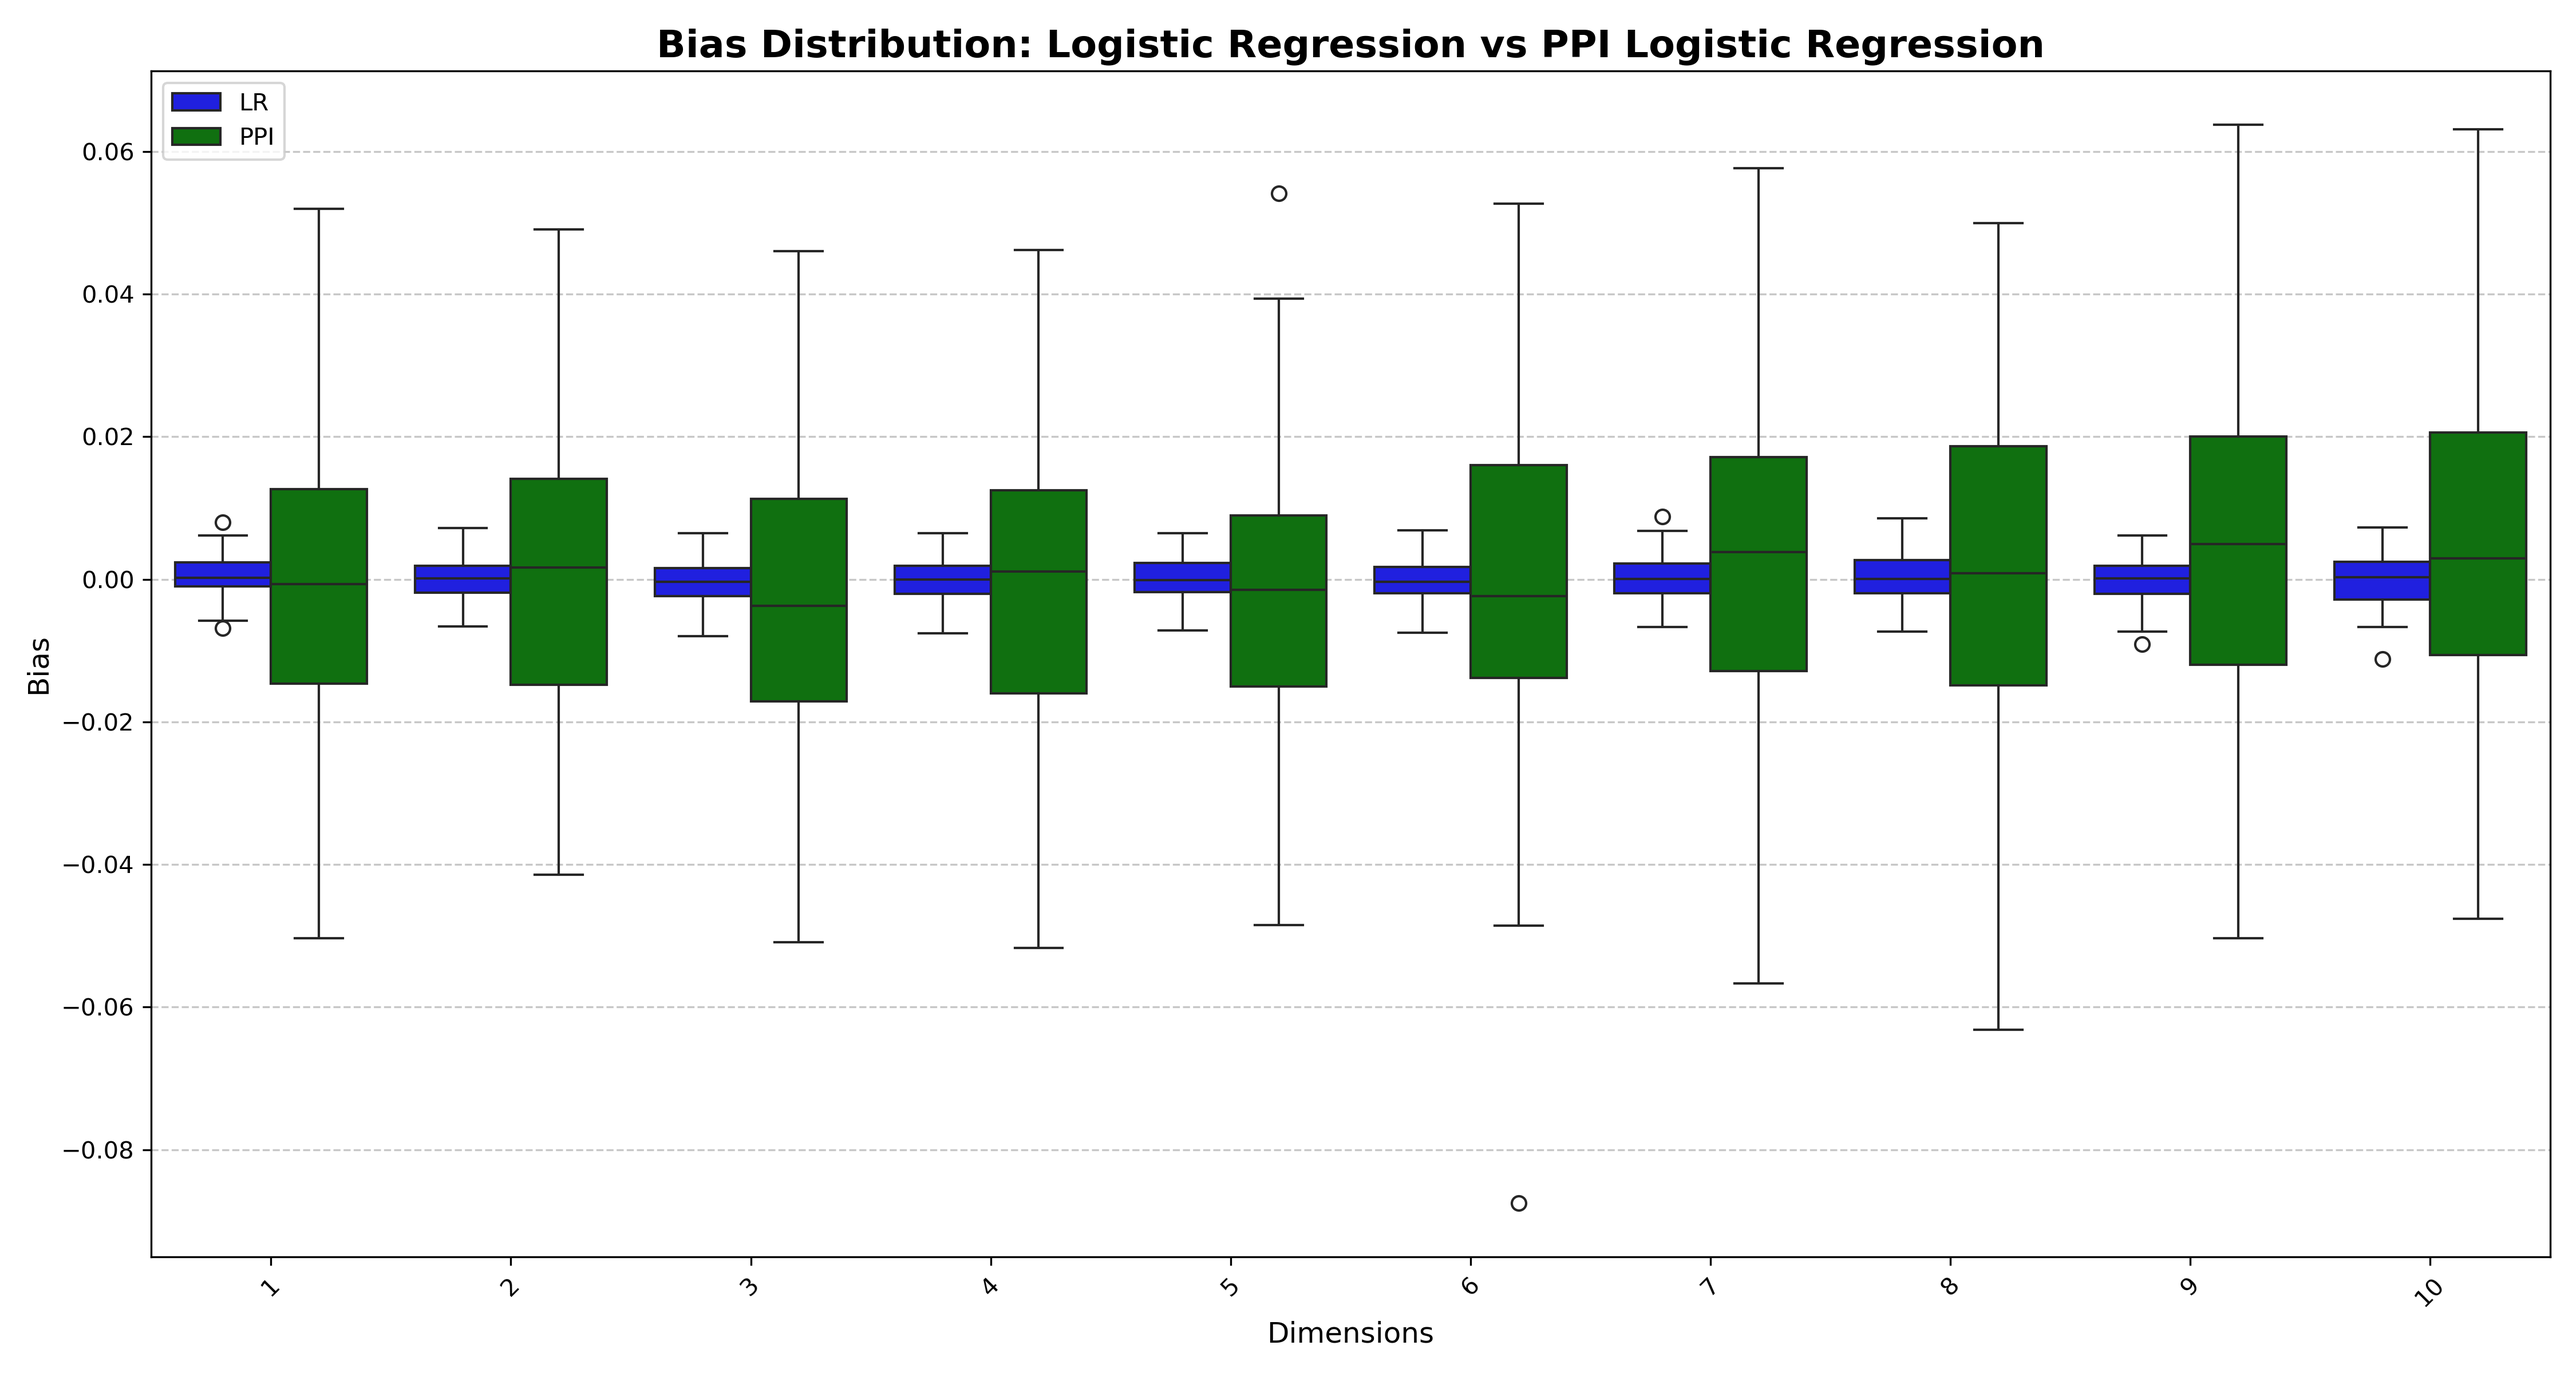
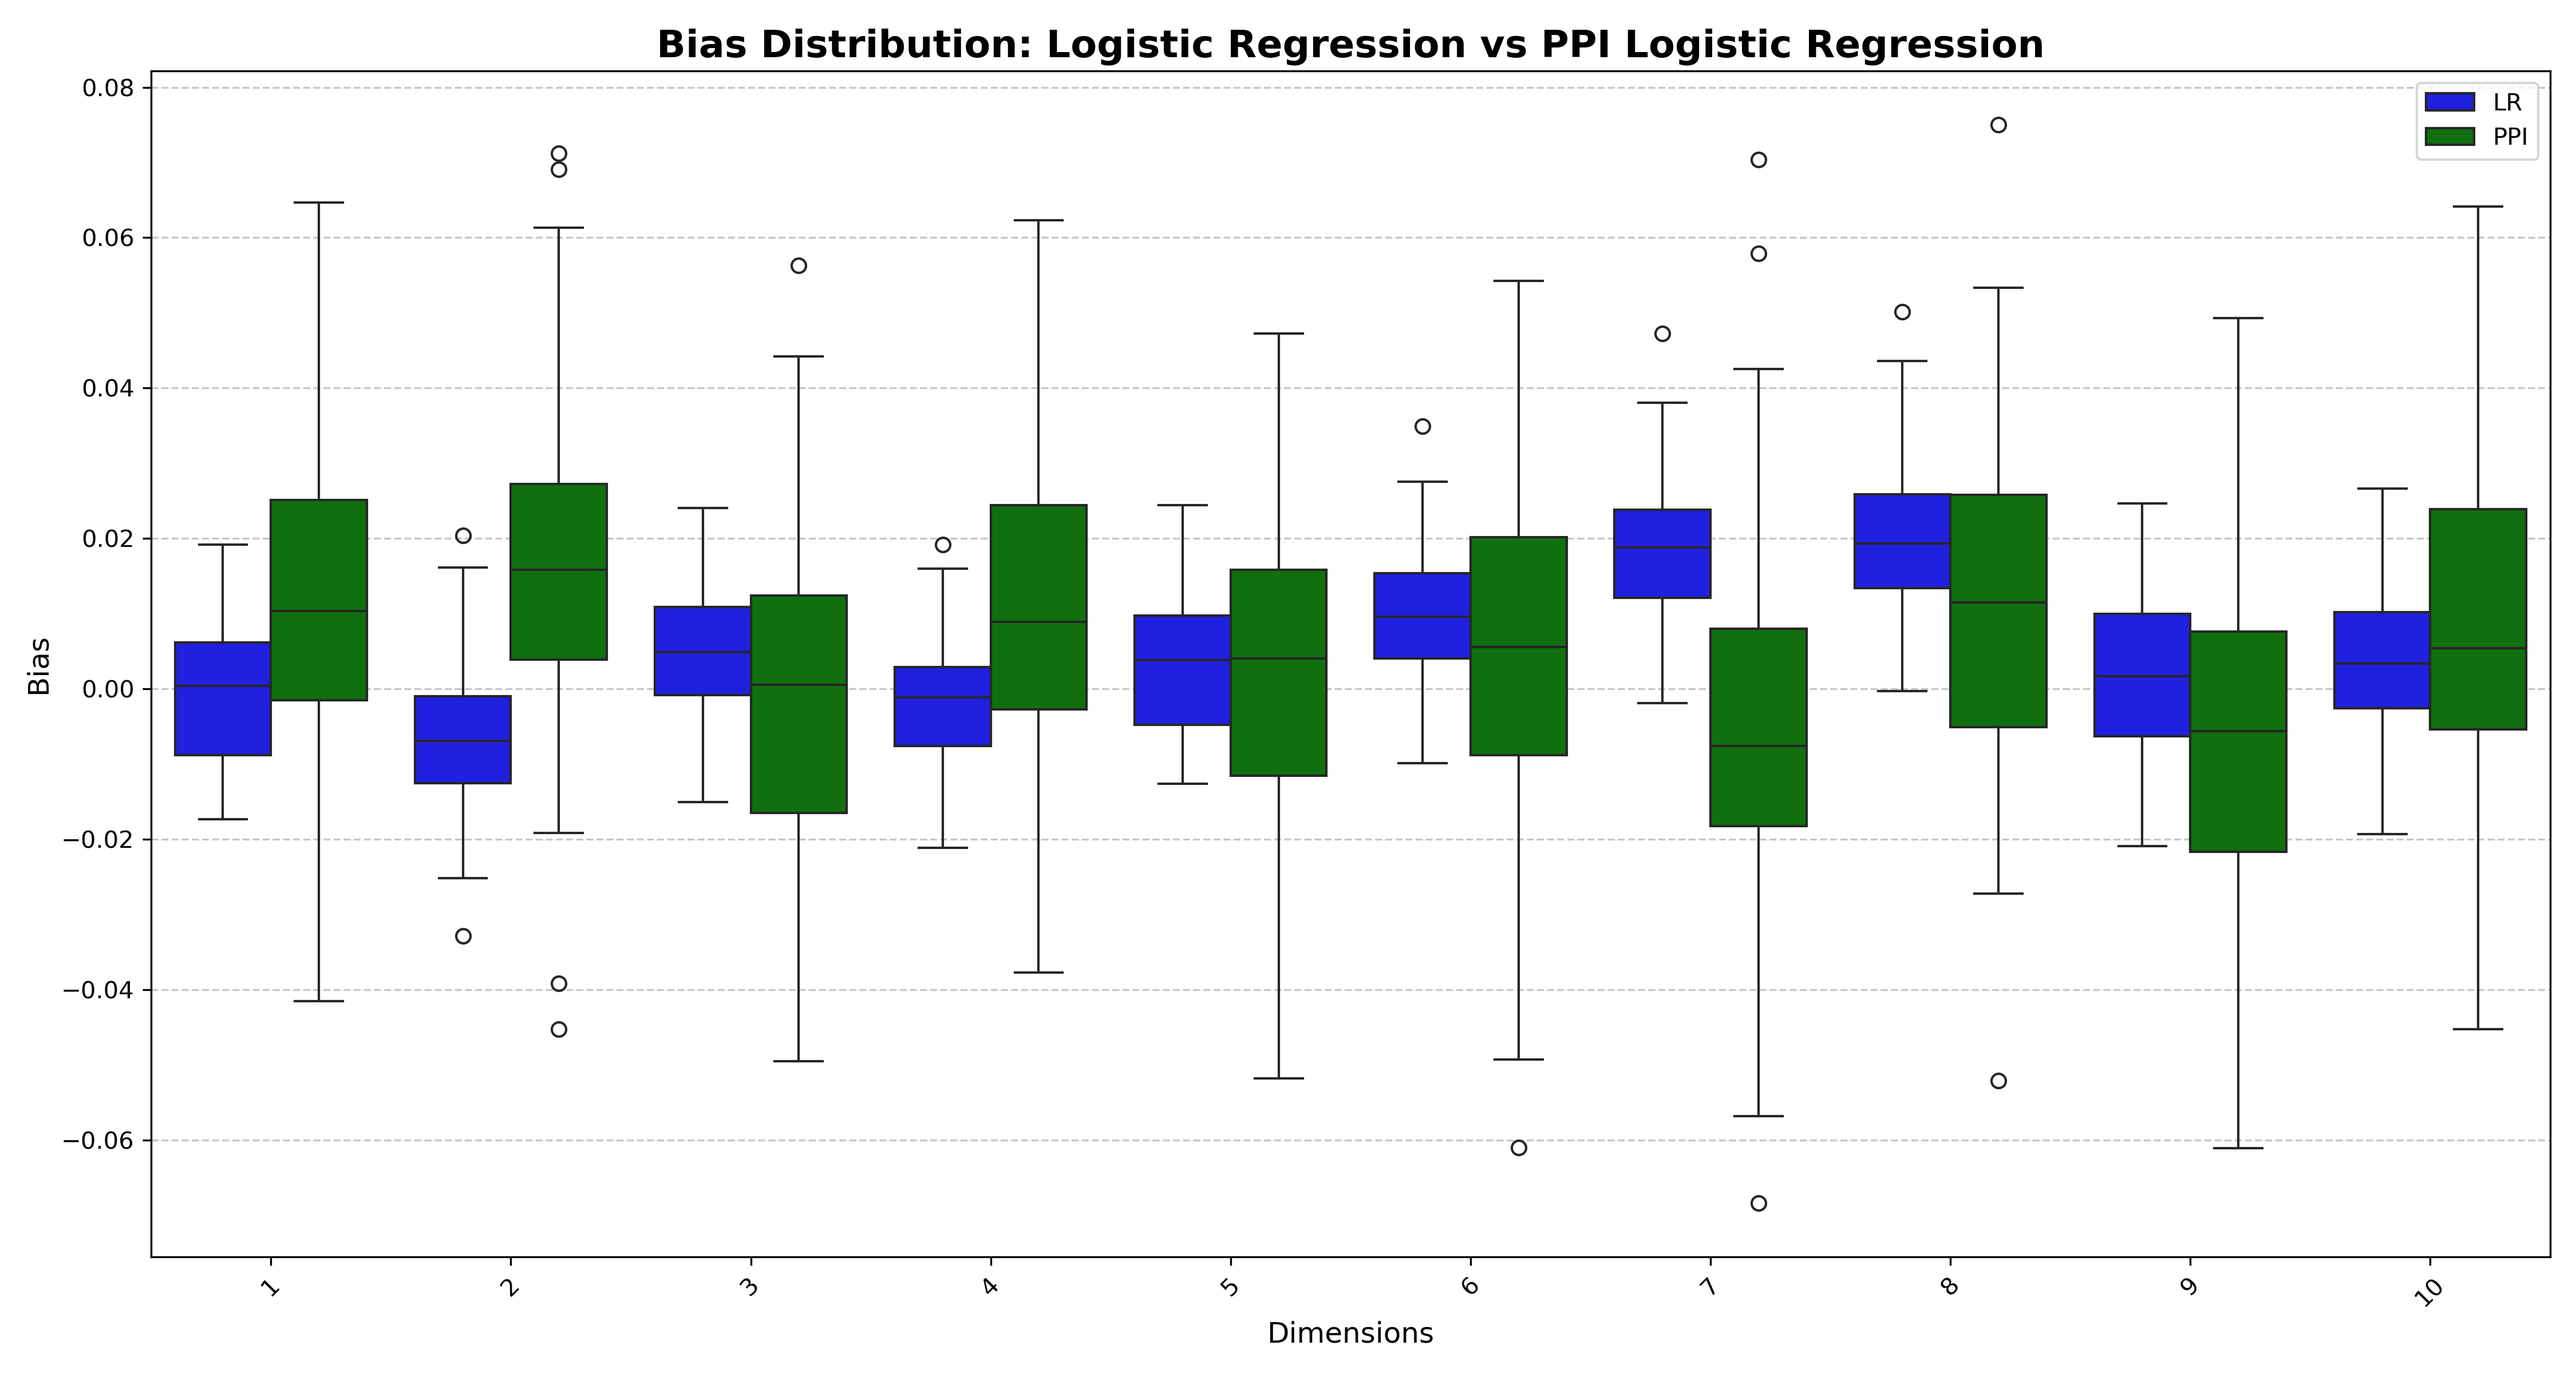
bootstrap

diff --git a/ppi_logistic.py b/ppi_logistic.py
@@ -206,6 +206,11 @@ def generate_data(n_samples, n_dims):
     return X, y
 
 
+def bootstrap_sample(X, y, n_samples):
+    indices = np.random.choice(len(X), size=n_samples, replace=True)
+    return X[indices], y[indices]
+
+
 if __name__ == "__main__":
     parser = argparse.ArgumentParser(description="PPI Logistic Regression Experiment")
     parser.add_argument(
@@ -256,6 +261,11 @@ if __name__ == "__main__":
     lr_bias_list = []
     ppi_bias_list = []
 
+    # Generate the full dataset only once
+    X_full, y_full = generate_data(args.n_samples * 2, args.n_dims)  # Generate extra data for holdout
+    n_labeled = int(args.n_samples * args.labeled_unlabeled_ratio)
+    n_unlabeled = args.n_samples - n_labeled
+
     with Progress(
         SpinnerColumn(),
         TextColumn("[progress.description]{task.description}"),
@@ -277,14 +287,14 @@ if __name__ == "__main__":
             beta_true = np.asarray(
                 [0] * (args.n_dims // 2) + [1] * (args.n_dims - args.n_dims // 2)
             )
-            n_labeled = int(args.n_samples * args.labeled_unlabeled_ratio)
-            n_unlabeled = args.n_samples - int(
-                args.n_samples * args.labeled_unlabeled_ratio
-            )
 
-            X_train_labeled, y_train_labeled = generate_data(n_labeled, args.n_dims)
-            X_train_unlabeled, _ = generate_data(n_unlabeled, args.n_dims)
-            X_holdout, y_holdout = generate_data(args.n_samples * 10, args.n_dims)
+            # Bootstrap sample from the full dataset
+            X_train, y_train = bootstrap_sample(X_full[:args.n_samples], y_full[:args.n_samples], args.n_samples)
+            X_holdout, y_holdout = bootstrap_sample(X_full[args.n_samples:], y_full[args.n_samples:], args.n_samples)
+
+            # Split the training data into labeled and unlabeled sets
+            X_train_labeled, y_train_labeled = X_train[:n_labeled], y_train[:n_labeled]
+            X_train_unlabeled = X_train[n_labeled:]
 
             beta_hat = optimize_logistic_regression(X_holdout, y_holdout, args.temp)
 
